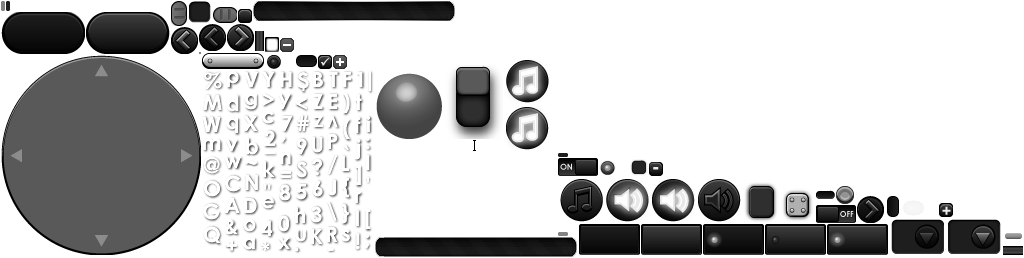
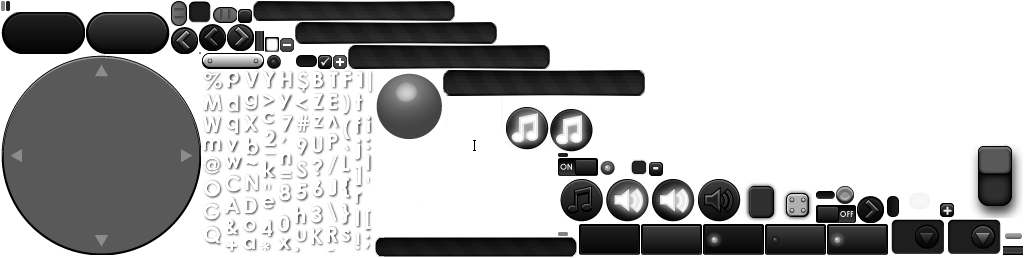
"v9 tweaks"

diff --git a/core/src/com/kredatus/flockblockers/GameObjects/Airship.java b/core/src/com/kredatus/flockblockers/GameObjects/Airship.java
@@ -411,7 +411,6 @@ public class Airship {  //engines, sideThrusters, armors and health are organize
             }
 
             if (eitherOnCam(inputX, inputY)) {
-                System.out.println(inputX+" "+inputY);
                 //System.out.println("either are on cam");
                 if (!isOnCam(inputY,"y")) {
                     //System.out.println("x is on cam");
@@ -434,7 +433,10 @@ public class Airship {  //engines, sideThrusters, armors and health are organize
                 movtween = Tween.to(pos, 0, timeToTweenTarget).target(inputX, inputY).ease(TweenEquations.easeOutQuint).setCallback(endOfMovement).start();
 
                 if (!UiHandler.movPad.isTouched()) {
-                    rotationTween = Tween.to(rotation, 0, 1.5f).waypoint((pos.x - inputX) / 10f).target(0).ease(TweenEquations.easeOutCirc).start();
+                    if (Math.abs((pos.x - inputX) / 10f)<30) rotationTween = Tween.to(rotation, 0, 1.5f).waypoint((pos.x - inputX) / 10f).target(0).ease(TweenEquations.easeOutCirc).start();
+                    else if (pos.x-inputX>0) rotationTween = Tween.to(rotation, 0, 1.5f).waypoint(30).target(0).ease(TweenEquations.easeOutCirc).start();
+                    else rotationTween = Tween.to(rotation, 0, 1.5f).waypoint(-30).target(0).ease(TweenEquations.easeOutCirc).start();
+
                     dragLineOpacity.set(0.4f);
 
                     tweenTarget.set(inputX + fingerAirshipXDiff, inputY + fingerAirshipYDiff);
@@ -445,8 +447,9 @@ public class Airship {  //engines, sideThrusters, armors and health are organize
                     }
 
                 } else {
-                    rotationTween = Tween.to(rotation, 0, .7f).waypoint((pos.x - inputX)/3).target(0).ease(TweenEquations.easeOutCirc).start();
-
+                    if (Math.abs((pos.x - inputX)/2)<20) rotationTween = Tween.to(rotation, 0, .7f).waypoint((pos.x - inputX)/2).target(0).ease(TweenEquations.easeOutCirc).start();
+                    else if (pos.x-inputX>0) rotationTween = Tween.to(rotation, 0, .7f).waypoint(20).target(0).ease(TweenEquations.easeOutCirc).start();
+                    else rotationTween = Tween.to(rotation, 0, .7f).waypoint(-20).target(0).ease(TweenEquations.easeOutCirc).start();
                 }
                 //rotate to waypoint based on x distance, then back to itself
             }

diff --git a/core/src/com/kredatus/flockblockers/Screens/Loader.java b/core/src/com/kredatus/flockblockers/Screens/Loader.java
@@ -131,7 +131,7 @@ public class Loader implements Screen {
             glowingLoadingBarTween.update(delta);
             if (manager.getProgress() != 1.0 && loadBar.getVisualPercent() < manager.getProgress() + 0.02f && glowingLoadingBarTween.isFinished()) {
                 glowingLoadingBarTween = Tween.to(loadBarAlpha, 0, 0.5f).target(0).repeatYoyo(1, 0).ease(TweenEquations.easeInCubic).start();
-            } else if (manager.getProgress() == 1.0 && glowingLoadingBarTween.isYoyo()) glowingLoadingBarTween = Tween.to(loadBarAlpha, 0, 1.2f).target(0).ease(TweenEquations.easeInCubic).start();
+            } else if (manager.getProgress() == 1.0 && glowingLoadingBarTween.isYoyo()) glowingLoadingBarTween = Tween.to(loadBarAlpha, 0, 1f).target(0).ease(TweenEquations.easeNone).start();
 
             if (manager.getProgress() == 1.0 && !glowingLoadingBarTween.isYoyo() && !isFirstTime) {
                 ((Sound) manager.get(assets.ignitionFire0Deignition7s)).setVolume(soundID,loadBarAlpha.get());
@@ -156,9 +156,9 @@ public class Loader implements Screen {
         /********************************************************LOADBAR*/
         //niteSkin = manager.get(assets.niteRideUI);
         shadeSkin = manager.get(assets.shadeUI);
-        loadBar = new ProgressBar(0, 1, 0.001f, false, shadeSkin.get("gradient-white-rim", ProgressBar.ProgressBarStyle.class));
+        loadBar = new ProgressBar(0, 1, 0.001f, false, shadeSkin.get("rim-gradient", ProgressBar.ProgressBarStyle.class));
         shadeSkin.getDrawable("loading-bar-fill").setMinHeight(loadBar.getPrefHeight()*1.1f);
-        shadeSkin.getDrawable("loading-bar-gradient-white-rim").setMinHeight(loadBar.getPrefHeight()*1.2f);
+        shadeSkin.getDrawable("loading-bar-rim-gradient").setMinHeight(loadBar.getPrefHeight()*1.2f);
         //`loadBar.setColor(1,0,0,1f);
         loadBar.setAnimateDuration(0.8f);
         loadBar.setWidth(camWidth/1.5f);

diff --git a/core/src/com/kredatus/flockblockers/FlockBlockersMain.java b/core/src/com/kredatus/flockblockers/FlockBlockersMain.java
@@ -39,7 +39,7 @@ public class FlockBlockersMain extends Game {
     }
     @Override
     public void resize(int width, int height) {//if after 5s since last screen created and done loading and width/height changed
-        if (System.currentTimeMillis()-startTime>5000 && loader.gameHandler!=null && (width!=loader.screenWidth || height!=loader.screenHeight)) {
+        if (System.currentTimeMillis()-startTime>500 && (width!=loader.screenWidth || height!=loader.screenHeight)) {
             Gdx.app.log("CloudDefenders", "resized");
             super.resize(width, height);
             loader=new Loader(this);

diff --git a/core/src/com/kredatus/flockblockers/GameWorld/GameRenderer.java b/core/src/com/kredatus/flockblockers/GameWorld/GameRenderer.java
@@ -791,7 +791,7 @@ public void setRotate(float angle){
             Gdx.gl.glBlendFunc(GL30.GL_SRC_ALPHA, GL30.GL_ONE_MINUS_SRC_ALPHA);
             shapeRenderer.begin(ShapeRenderer.ShapeType.Filled);
             shapeRenderer.setColor(transitionColor.r, transitionColor.g,transitionColor.b, alpha.get());
-            shapeRenderer.rect(-camWidth*.1f, -camHeight*.1f, camWidth*1.1f, camHeight*1.1f);
+            shapeRenderer.rect(-camWidth*.1f, -camHeight*.1f, camWidth*1.2f, camHeight*1.2f);
             shapeRenderer.end();
             Gdx.gl.glDisable(GL30.GL_BLEND);
         }

diff --git a/core/src/com/kredatus/flockblockers/Handlers/UiHandler.java b/core/src/com/kredatus/flockblockers/Handlers/UiHandler.java
@@ -81,7 +81,7 @@ public class UiHandler {
         //rootTable.add(new Label("Shade UI", shadeSkin, "title")).colspan(3);
         rootTable.row();
         shadeSkin.getDrawable("loading-bar").setMinHeight(20);shadeSkin.getDrawable("loading-bar-fill").setMinHeight(20);
-        ProgressBar loadBar = new ProgressBar(0, 1, 0.001f, false, shadeSkin);
+        ProgressBar loadBar = new ProgressBar(0, 1, 0.001f, false, shadeSkin.get("rim-gradient", ProgressBar.ProgressBarStyle.class));
         loadBar.setColor(1,0,0,0.5f);
         loadBar.setAnimateDuration(0.7f);
 
